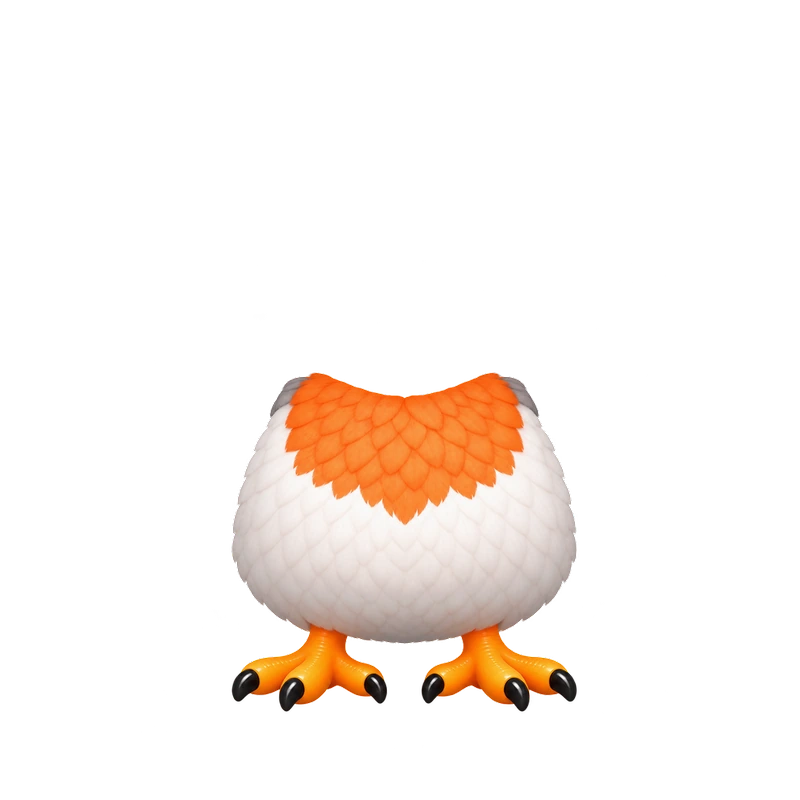
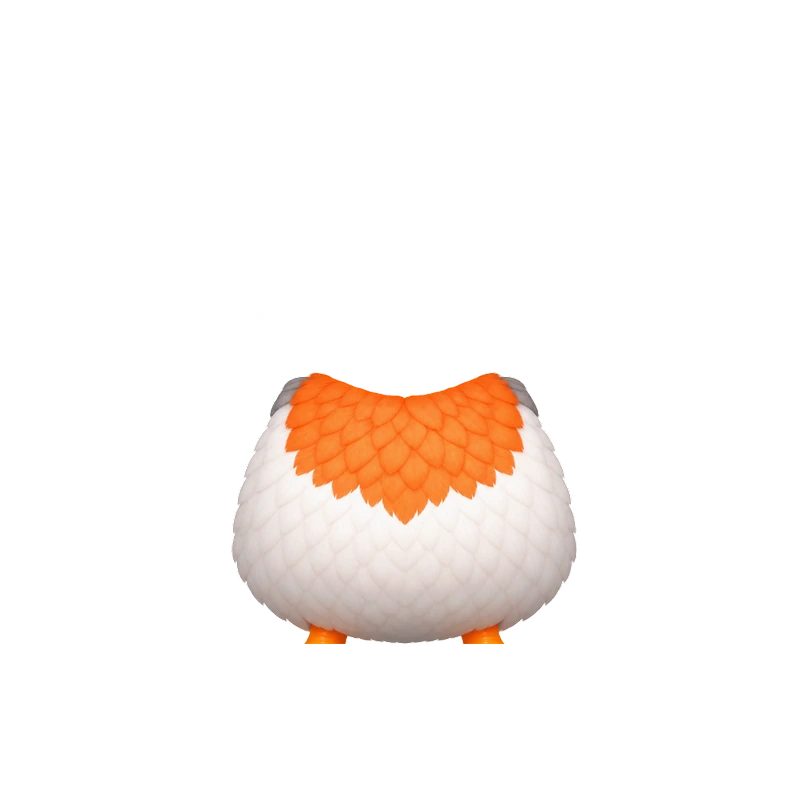
Classic: new locked art with separate feet and tucked wings
The v0.6 delivery splits the feet out of the body into their own fixed
layers and replaces the wings with full, tucked grey shapes that follow
the body curve, so the old exposed white notch is gone and the body is a
complete rounded shape behind them.

- PROTO_BIRDS.classic gains foot-l/foot-r under the body
- shiftY 7.9 -> 5.0: the art now ends at y 91.8 rather than 88.8, because
  the feet reach past the old body baseline. The bird stands on the rug at
  96.9 as before, in line with the Cardinal and the Parrot.

Every washable region arrived neutral (chroma 14 across head and both
wings), so the exporter passed all three through untouched. Head art and
head mask are byte-identical to the previous delivery.

Claude-Session: https://claude.ai/code/session_01BftYwBApCySU9gZJ9AtT18

Changed region(s): [[0.2812, 0.7812, 0.5, 0.9062], [0.5312, 0.7812, 0.7188, 0.9062]]

diff --git a/static/index.html b/static/index.html
@@ -4877,7 +4877,9 @@ let accessorySvgCache = {};
 //   wash the mask marking which of that layer's pixels take the child's
 //        colour. Omit it and the layer never recolours.
 const PROTO_BIRDS = {
-  classic: { dir: '/static/avatar/classic/', shiftY: 7.9, scale: 1.2, stack: [
+  classic: { dir: '/static/avatar/classic/', shiftY: 5.0, scale: 1.2, stack: [
+    { f: 'foot-l.webp', grp: 'under' },
+    { f: 'foot-r.webp', grp: 'under' },
     { f: 'body.webp',   grp: 'torso' },
     { f: 'wing-l.webp', grp: 'wingL', wash: 'wash-wing-l.webp' },
     { f: 'wing-r.webp', grp: 'wingR', wash: 'wash-wing-r.webp' },
